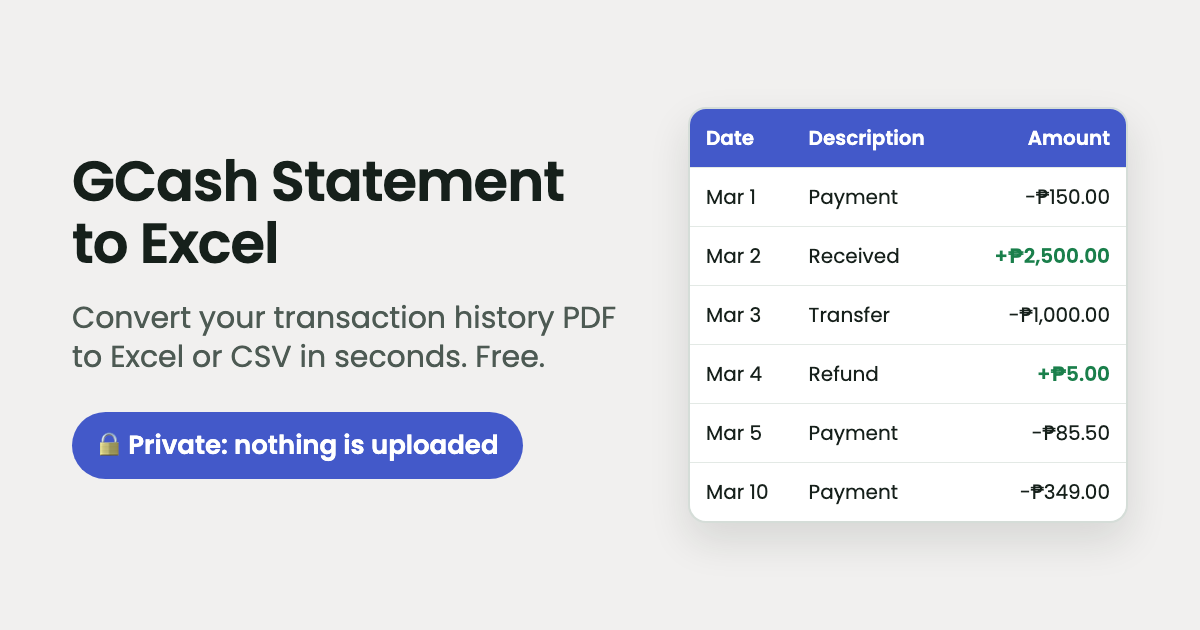
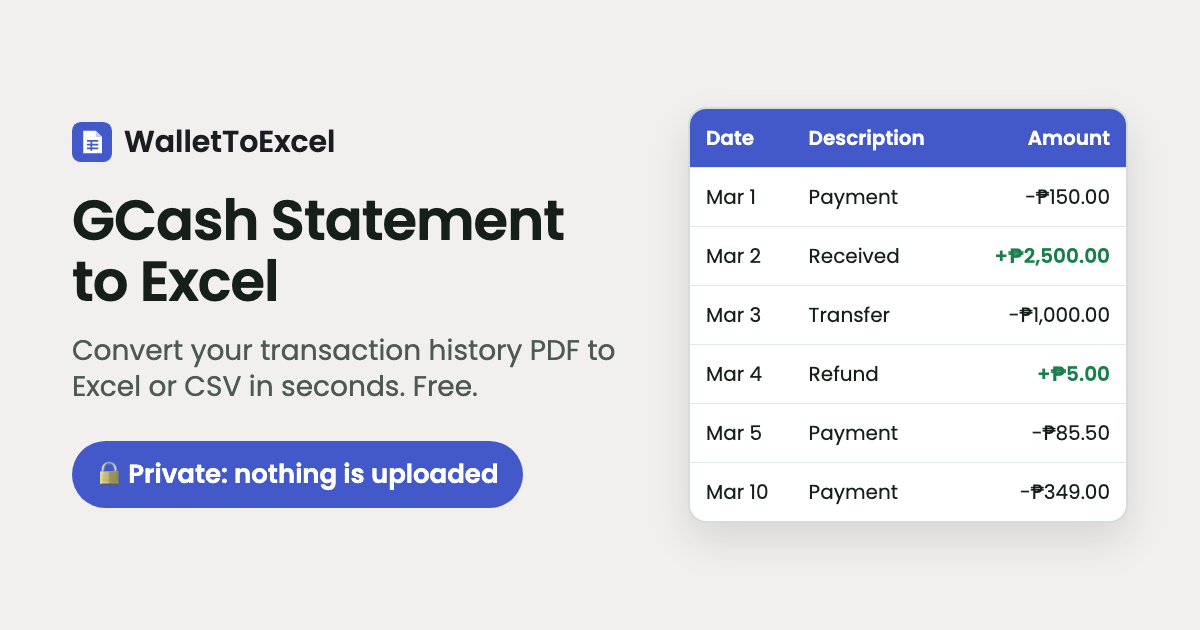
Rebrand to WalletToExcel; light theme only
- Brand name WalletToExcel (header, footer, OG site name, schema with
  alternateName "GCash Statement to Excel"); SEO copy keeps targeting
  "GCash statement to Excel" (keyword first, brand last in titles)
- Remove dark mode; color-scheme light
- Share image shows the brand
- e2e uses its own port (4329) and never reuses a running dev server

Changed region(s): [[0.0617, 0.181, 0.5242, 0.8143]]

diff --git a/src/styles/global.css b/src/styles/global.css
@@ -15,7 +15,7 @@
 }
 
 :root {
-  color-scheme: light dark;
+  color-scheme: light;
   --bg: #ffffff;
   --panel: #f1f0ef;
   --tint: #eceffb;
@@ -37,27 +37,6 @@
     "Poppins", -apple-system, BlinkMacSystemFont, "Segoe UI", Roboto, "Helvetica Neue", sans-serif;
   font-family: var(--font);
   line-height: 1.6;
-}
-
-@media (prefers-color-scheme: dark) {
-  :root {
-    --bg: #14161a;
-    --panel: #1e2126;
-    --tint: #1d2235;
-    --text: #f1f2f4;
-    --body: #d3d6dc;
-    --muted: #a3a9b4;
-    --border: #2d3138;
-    --accent: #7d8ff0;
-    --accent-hover: #93a2f3;
-    --accent-text: #0f1220;
-    --link: #9aa8f5;
-    --ok: #57c78c;
-    --focus: #9aa8f5;
-    --warn-bg: #2b2414;
-    --warn-border: #4a3d1c;
-    --warn-text: #f1d58e;
-  }
 }
 
 *,
@@ -159,9 +138,8 @@ a:hover {
   gap: 10px;
   color: var(--text);
   text-decoration: none;
-  text-transform: uppercase;
-  font-size: 0.95rem;
-  letter-spacing: 0.02em;
+  font-size: 1.1rem;
+  font-weight: 600;
 }
 .brand:hover {
   color: var(--text);
@@ -182,7 +160,7 @@ nav ul {
 }
 @media (max-width: 479px) {
   .brand-text {
-    font-size: 0.75rem;
+    font-size: 1rem;
   }
   .site-header nav ul {
     gap: 14px;

diff --git a/playwright.config.ts b/playwright.config.ts
@@ -1,6 +1,7 @@
 import { defineConfig, devices } from "@playwright/test";
 
-const PORT = 4321;
+// Not 4321: that's `astro dev`'s port, and the tests must hit the production build.
+const PORT = 4329;
 
 // Runs against the production build (`npm run test:e2e` builds first), served with dist/_headers
 // so the Content-Security-Policy is enforced like on Cloudflare Pages.
@@ -18,6 +19,6 @@ export default defineConfig({
   webServer: {
     command: `node scripts/serve-dist.mjs dist ${PORT}`,
     url: `http://localhost:${PORT}`,
-    reuseExistingServer: !process.env.CI,
+    reuseExistingServer: false,
   },
 });

diff --git a/src/site.ts b/src/site.ts
@@ -1,6 +1,8 @@
 // Site-wide constants and UI strings. Keep user-facing text here so Filipino/Taglish can be added later.
 
-export const SITE_NAME = "GCash Statement to Excel";
+export const SITE_NAME = "WalletToExcel";
+/** What the product does, in the words people search for. Used in titles, schema and copy. */
+export const SITE_TAGLINE = "GCash Statement to Excel";
 // Set PUBLIC_CONTACT_EMAIL at build time (see astro.config.mjs; production deploys require it).
 export const CONTACT_EMAIL: string = import.meta.env.PUBLIC_CONTACT_EMAIL ?? "hello@example.com";
 

diff --git a/README.md b/README.md
@@ -1,5 +1,6 @@
-# GCash Statement to Excel
+# WalletToExcel
 
+GCash statement to Excel converter.
 Convert a GCash Transaction History PDF into a clean Excel (.xlsx) or CSV file, entirely in the
 browser. **The statement, its password and the transactions never leave the user's device.**
 
@@ -74,11 +75,11 @@ the fake statement only, then set `draft: false` and `updatedDate`.
    - Build output directory: `dist`
 3. Environment variables (Settings → Variables and secrets), for **Production**:
 
-   | Variable               | Example                              | Notes                                                                                  |
-   | ---------------------- | ------------------------------------ | -------------------------------------------------------------------------------------- |
-   | `SITE_URL`             | `https://gstatementparser.pages.dev` | Canonical URLs, OG tags, sitemap, robots.txt. Use the custom domain once you have one. |
-   | `PUBLIC_CONTACT_EMAIL` | `you@yourdomain.ph`                  | Shown in the footer, privacy and about pages.                                          |
-   | `NODE_VERSION`         | `24`                                 | Matches `.nvmrc`.                                                                      |
+   | Variable               | Example                           | Notes                                                                                  |
+   | ---------------------- | --------------------------------- | -------------------------------------------------------------------------------------- |
+   | `SITE_URL`             | `https://wallettoexcel.pages.dev` | Canonical URLs, OG tags, sitemap, robots.txt. Use the custom domain once you have one. |
+   | `PUBLIC_CONTACT_EMAIL` | `you@yourdomain.ph`               | Shown in the footer, privacy and about pages.                                          |
+   | `NODE_VERSION`         | `24`                              | Matches `.nvmrc`.                                                                      |
 
    **Launch guard:** production builds on the `main` branch fail until `SITE_URL` and
    `PUBLIC_CONTACT_EMAIL` are set to real values. Preview deployments are not blocked. Run the same

diff --git a/CLAUDE.md b/CLAUDE.md
@@ -1,4 +1,7 @@
-# CLAUDE.md — GCash Statement to Excel (MVP)
+# CLAUDE.md — WalletToExcel (MVP)
+
+Brand: **WalletToExcel** (domain target: wallettoexcel.com). The brand name avoids "GCash" on purpose
+(trademark), but SEO copy still targets what people search for: "GCash statement to Excel".
 
 ## What this project is
 
@@ -208,7 +211,8 @@ Never store the password (no localStorage, no URL params).
 - Clear privacy note near the upload box: "Processed entirely on your device. Nothing is uploaded."
 - Footer: disclaimer (not affiliated with GCash), link to privacy page, contact email.
 - Languages: English first; keep UI strings in one object so Filipino/Taglish can be added later.
-- Accessible: labels on inputs, keyboard usable, good contrast, works in light and dark mode.
+- Accessible: labels on inputs, keyboard usable, good contrast.
+- Light theme only (minimal, light design; no dark mode).
 
 ## SEO requirements
 
@@ -228,7 +232,7 @@ Taglish, e.g. "gcash transaction history to excel", "how to download gcash trans
 
 ### Landing page (`/`)
 
-- Title example: "GCash Statement to Excel – Free & Private Converter".
+- Title example: "GCash Statement to Excel – Free & Private | WalletToExcel" (keyword first, brand last).
 - The converter is above the fold, but the page also has real crawlable text below it:
   how it works (3 steps), why it's private, who it's for, and an FAQ section in plain HTML.
 - JSON-LD: `WebApplication` (name, url, applicationCategory: "FinanceApplication",
